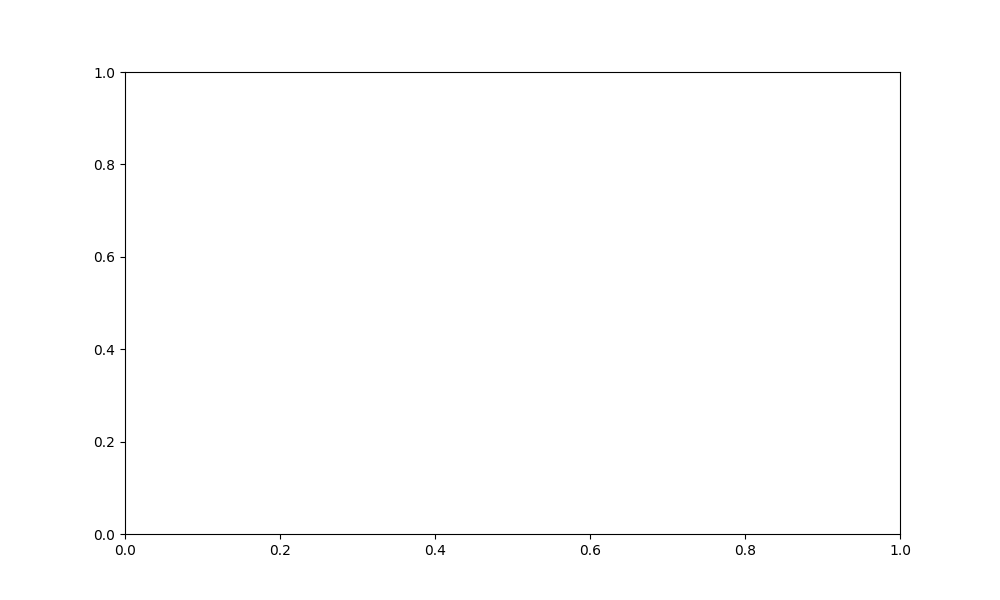
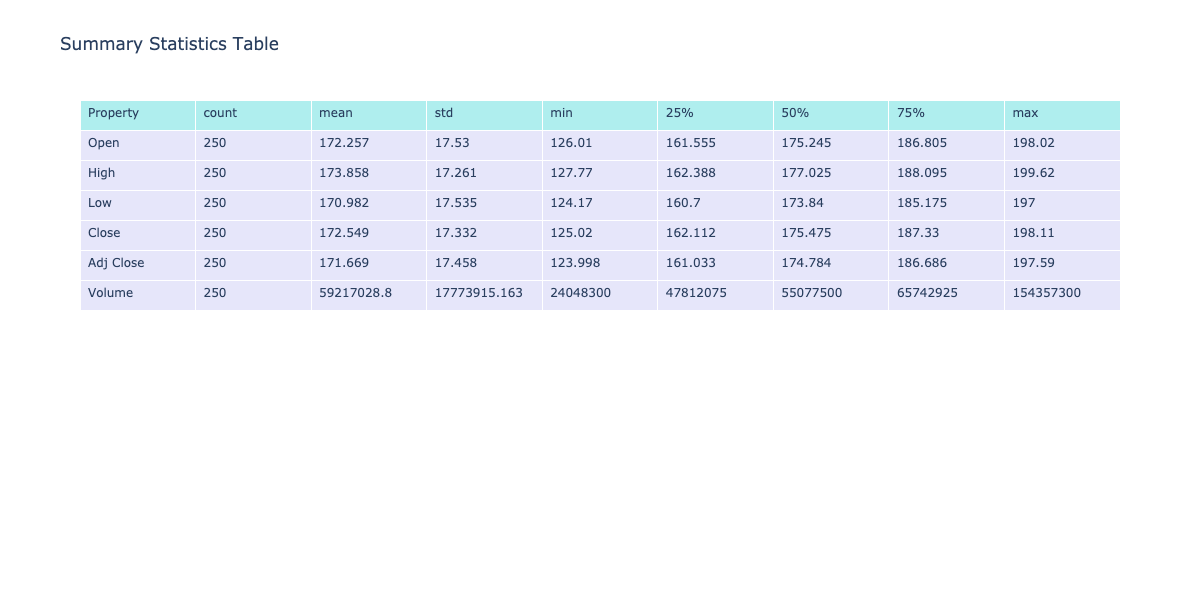
feat: add describe visualization

diff --git a/visualizations.py b/visualizations.py
@@ -3,10 +3,10 @@ import copy
 import pandas
 
 import matplotlib.pyplot as plt
-from matplotlib.axes import Axes
-from matplotlib.figure import Figure
 import plotly.graph_objects as go  # type: ignore
 
+from matplotlib.axes import Axes
+from matplotlib.figure import Figure
 
 from typing import Tuple
 from settings import Columns
@@ -288,10 +288,35 @@ class RelativeStrengthIndexVisualization(MatplotLibVisualization):
         return rsi
 
 
-class DescribeVisualization(MatplotLibVisualization):
-    def visualize(self) -> Tuple[Figure, Axes]:
-        self.dataframe.describe()
-        return self.plot()
+class DescribeVisualization(PlotlyVisualization):
+    title: str = 'Summary Statistics Table'
+
+    def visualize(self) -> go.Figure:
+        desc = self.dataframe.describe().transpose()
+        desc = desc.round(3)
+        fig = go.Figure(data=[go.Table(
+            header=dict(
+                values=['Property'] + list(desc.columns),
+                fill_color='paleturquoise',
+                align='left',
+                height=30,
+                font_size=12
+            ),
+            cells=dict(
+                values=[desc.index] +
+                [desc[col].values for col in desc.columns],
+                fill_color='lavender',
+                align='left',
+                height=30,
+                font_size=12
+            )
+        )])
+
+        fig.update_layout(
+            title=self.title,
+            width=1200,
+            height=600)
+        return fig
 
 
 class VolatilityAnalysis(DailyReturnsVisualization):

diff --git a/README.md b/README.md
@@ -10,33 +10,37 @@ This project is for analysing Apple's stock prices in the timeframe between 2023
 
 ![Compiled plotly figure example](./images/candles.png)
 
+## Data Description
+
+![Compiled plotly figure example](./images/describe.png)
+
 ## Moving Averages
 
-![Compiled plotly figure example](./images/averages.png)
+![Compiled matplotlib figure example](./images/averages.png)
 
 ## Daily Returns
 
-![Compiled plotly figure example](./images/daily_returns.png)
+![Compiled matplotlib figure example](./images/daily_returns.png)
 
 ## Volatility
 
-![Compiled plotly figure example](./images/volatility.png)
+![Compiled matplotlib figure example](./images/volatility.png)
 
 ## Cumulative Returns
 
-![Compiled plotly figure example](./images/cumulative_returns.png)
+![Compiled matplotlib figure example](./images/cumulative_returns.png)
 
 ## Volume Analysis
 
-![Compiled plotly figure example](./images/volume.png)
+![Compiled matplotlib figure example](./images/volume.png)
 
 ## Bollinger Bands
 
-![Compiled plotly figure example](./images/bollinger.png)
+![Compiled matplotlib figure example](./images/bollinger.png)
 
 ## Relative Strength Index (RSI)
 
-![Compiled plotly figure example](./images/rsi.png)
+![Compiled matplotlib figure example](./images/rsi.png)
 
 # Requirements
 Install PostgreSQL on you local machine or configure settings.py in a way that you will be able to connect to your database.
